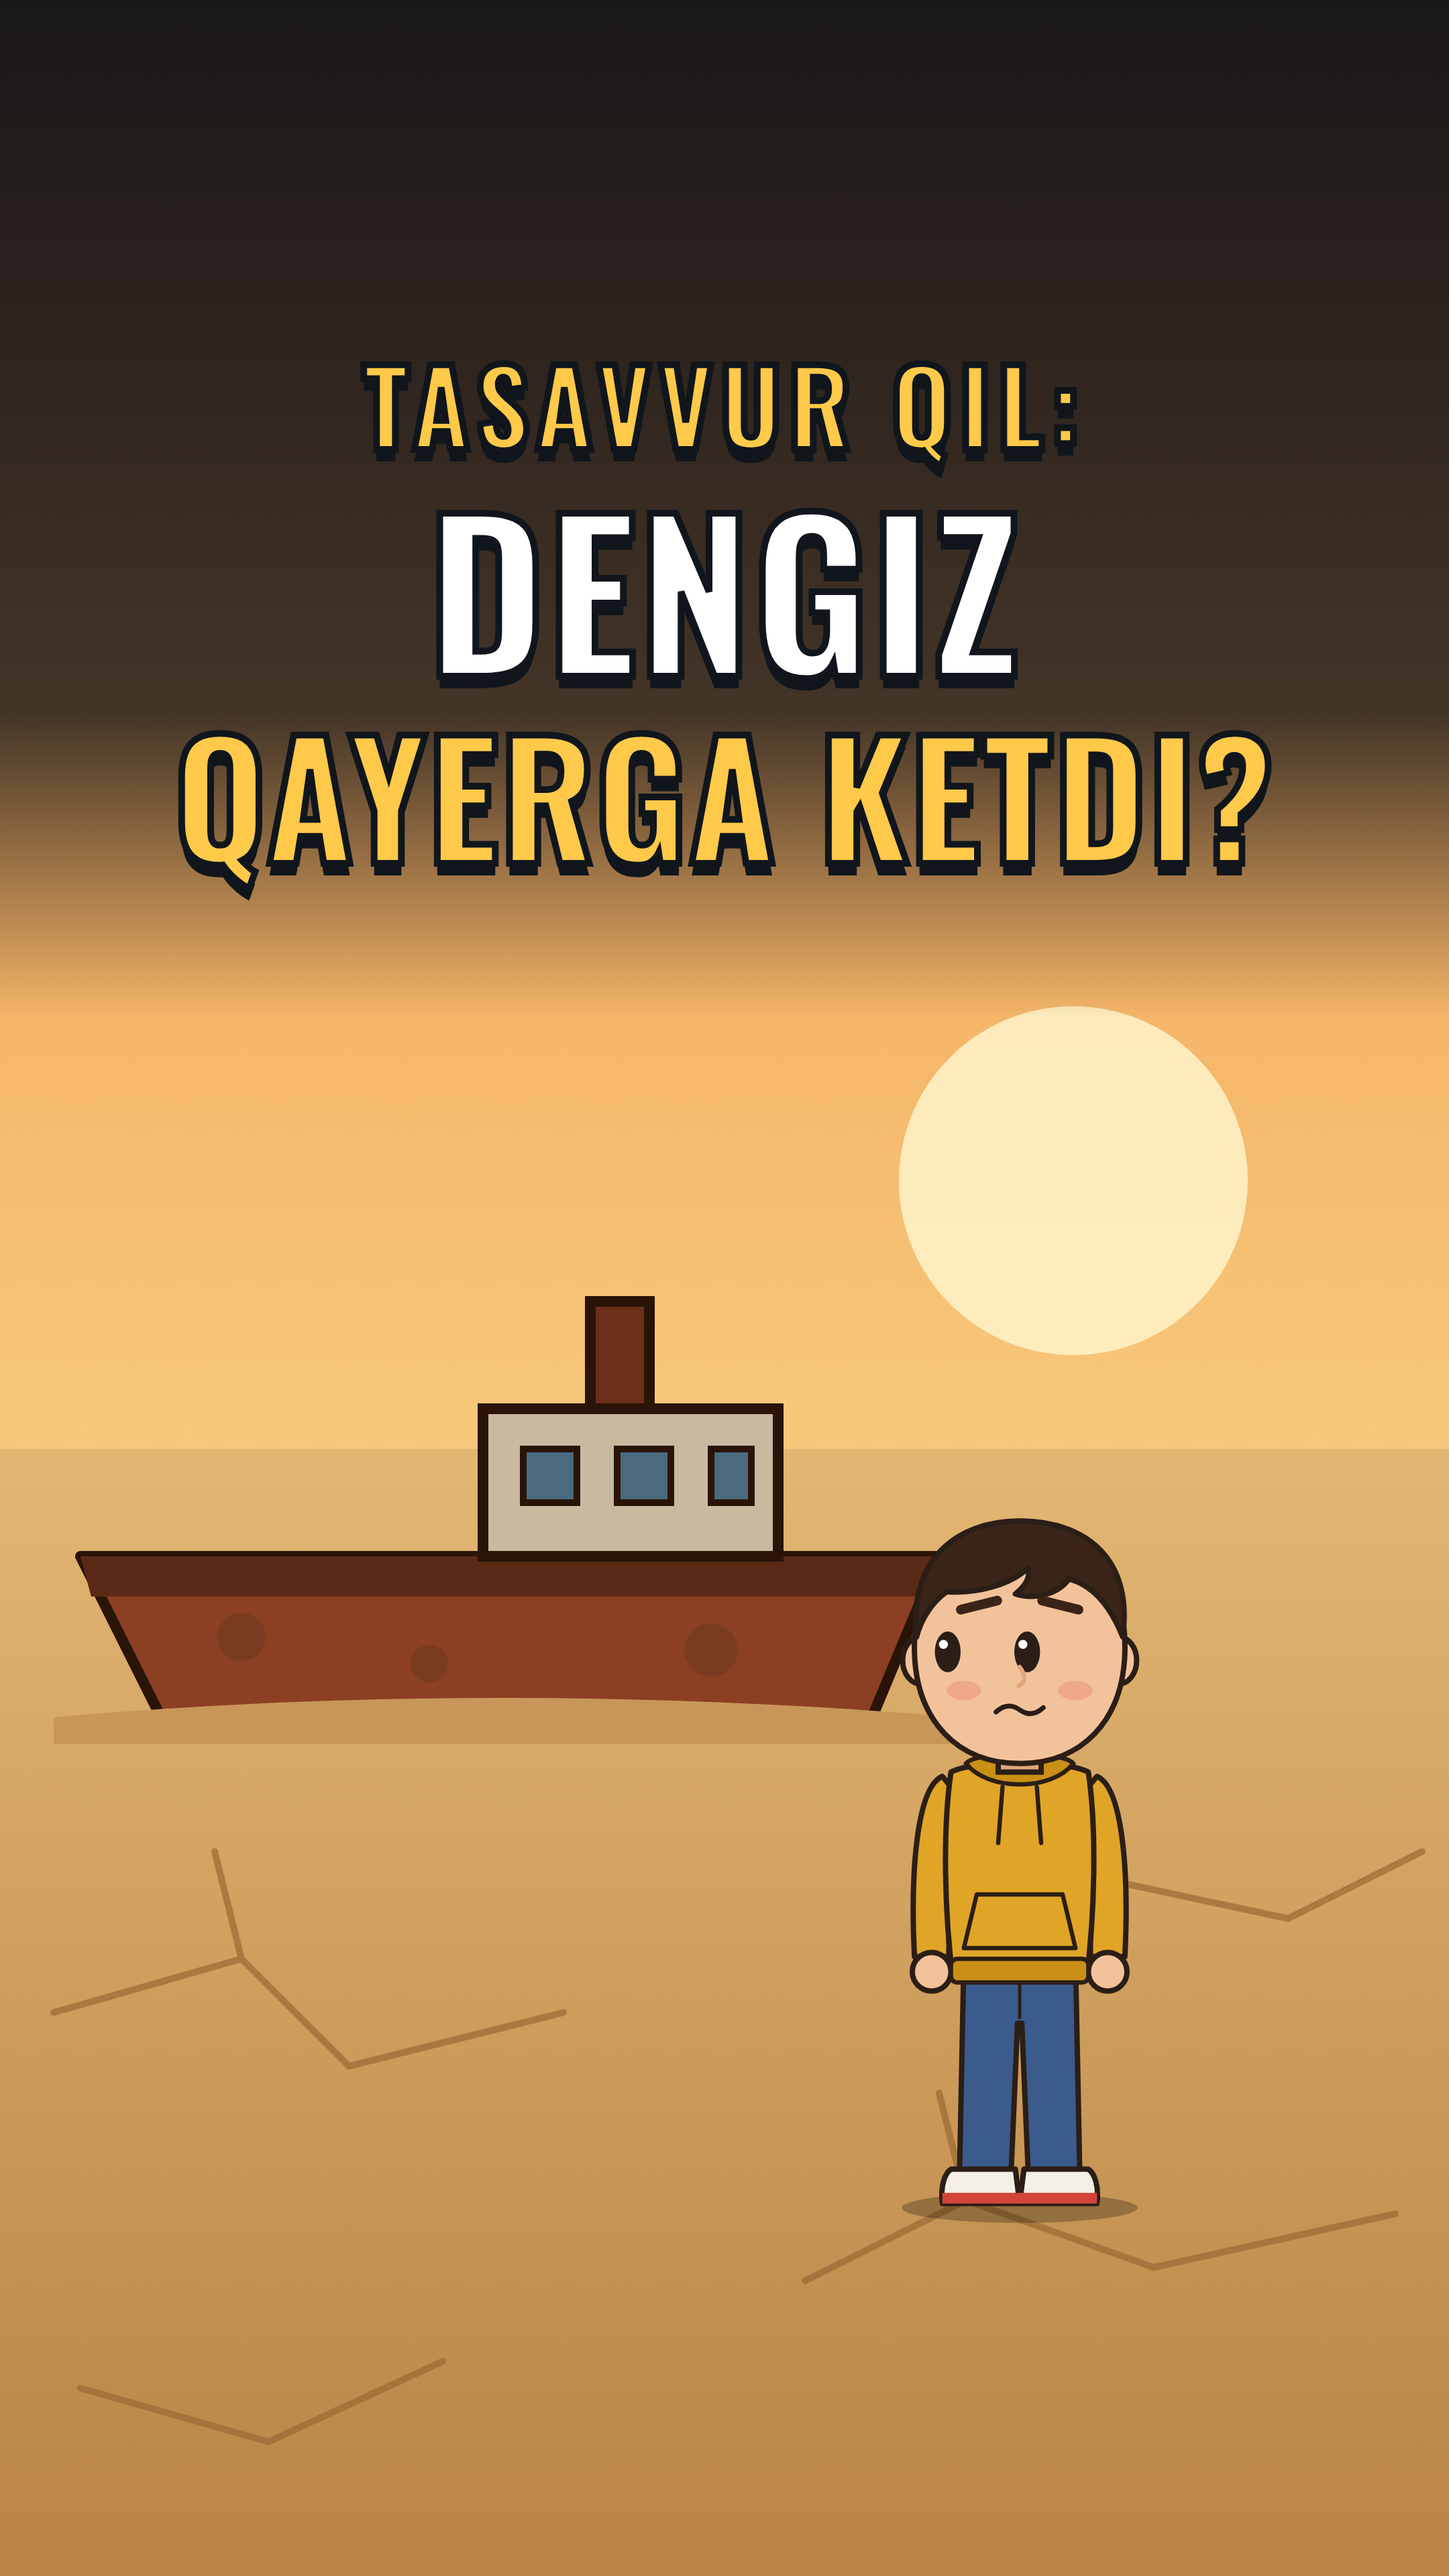
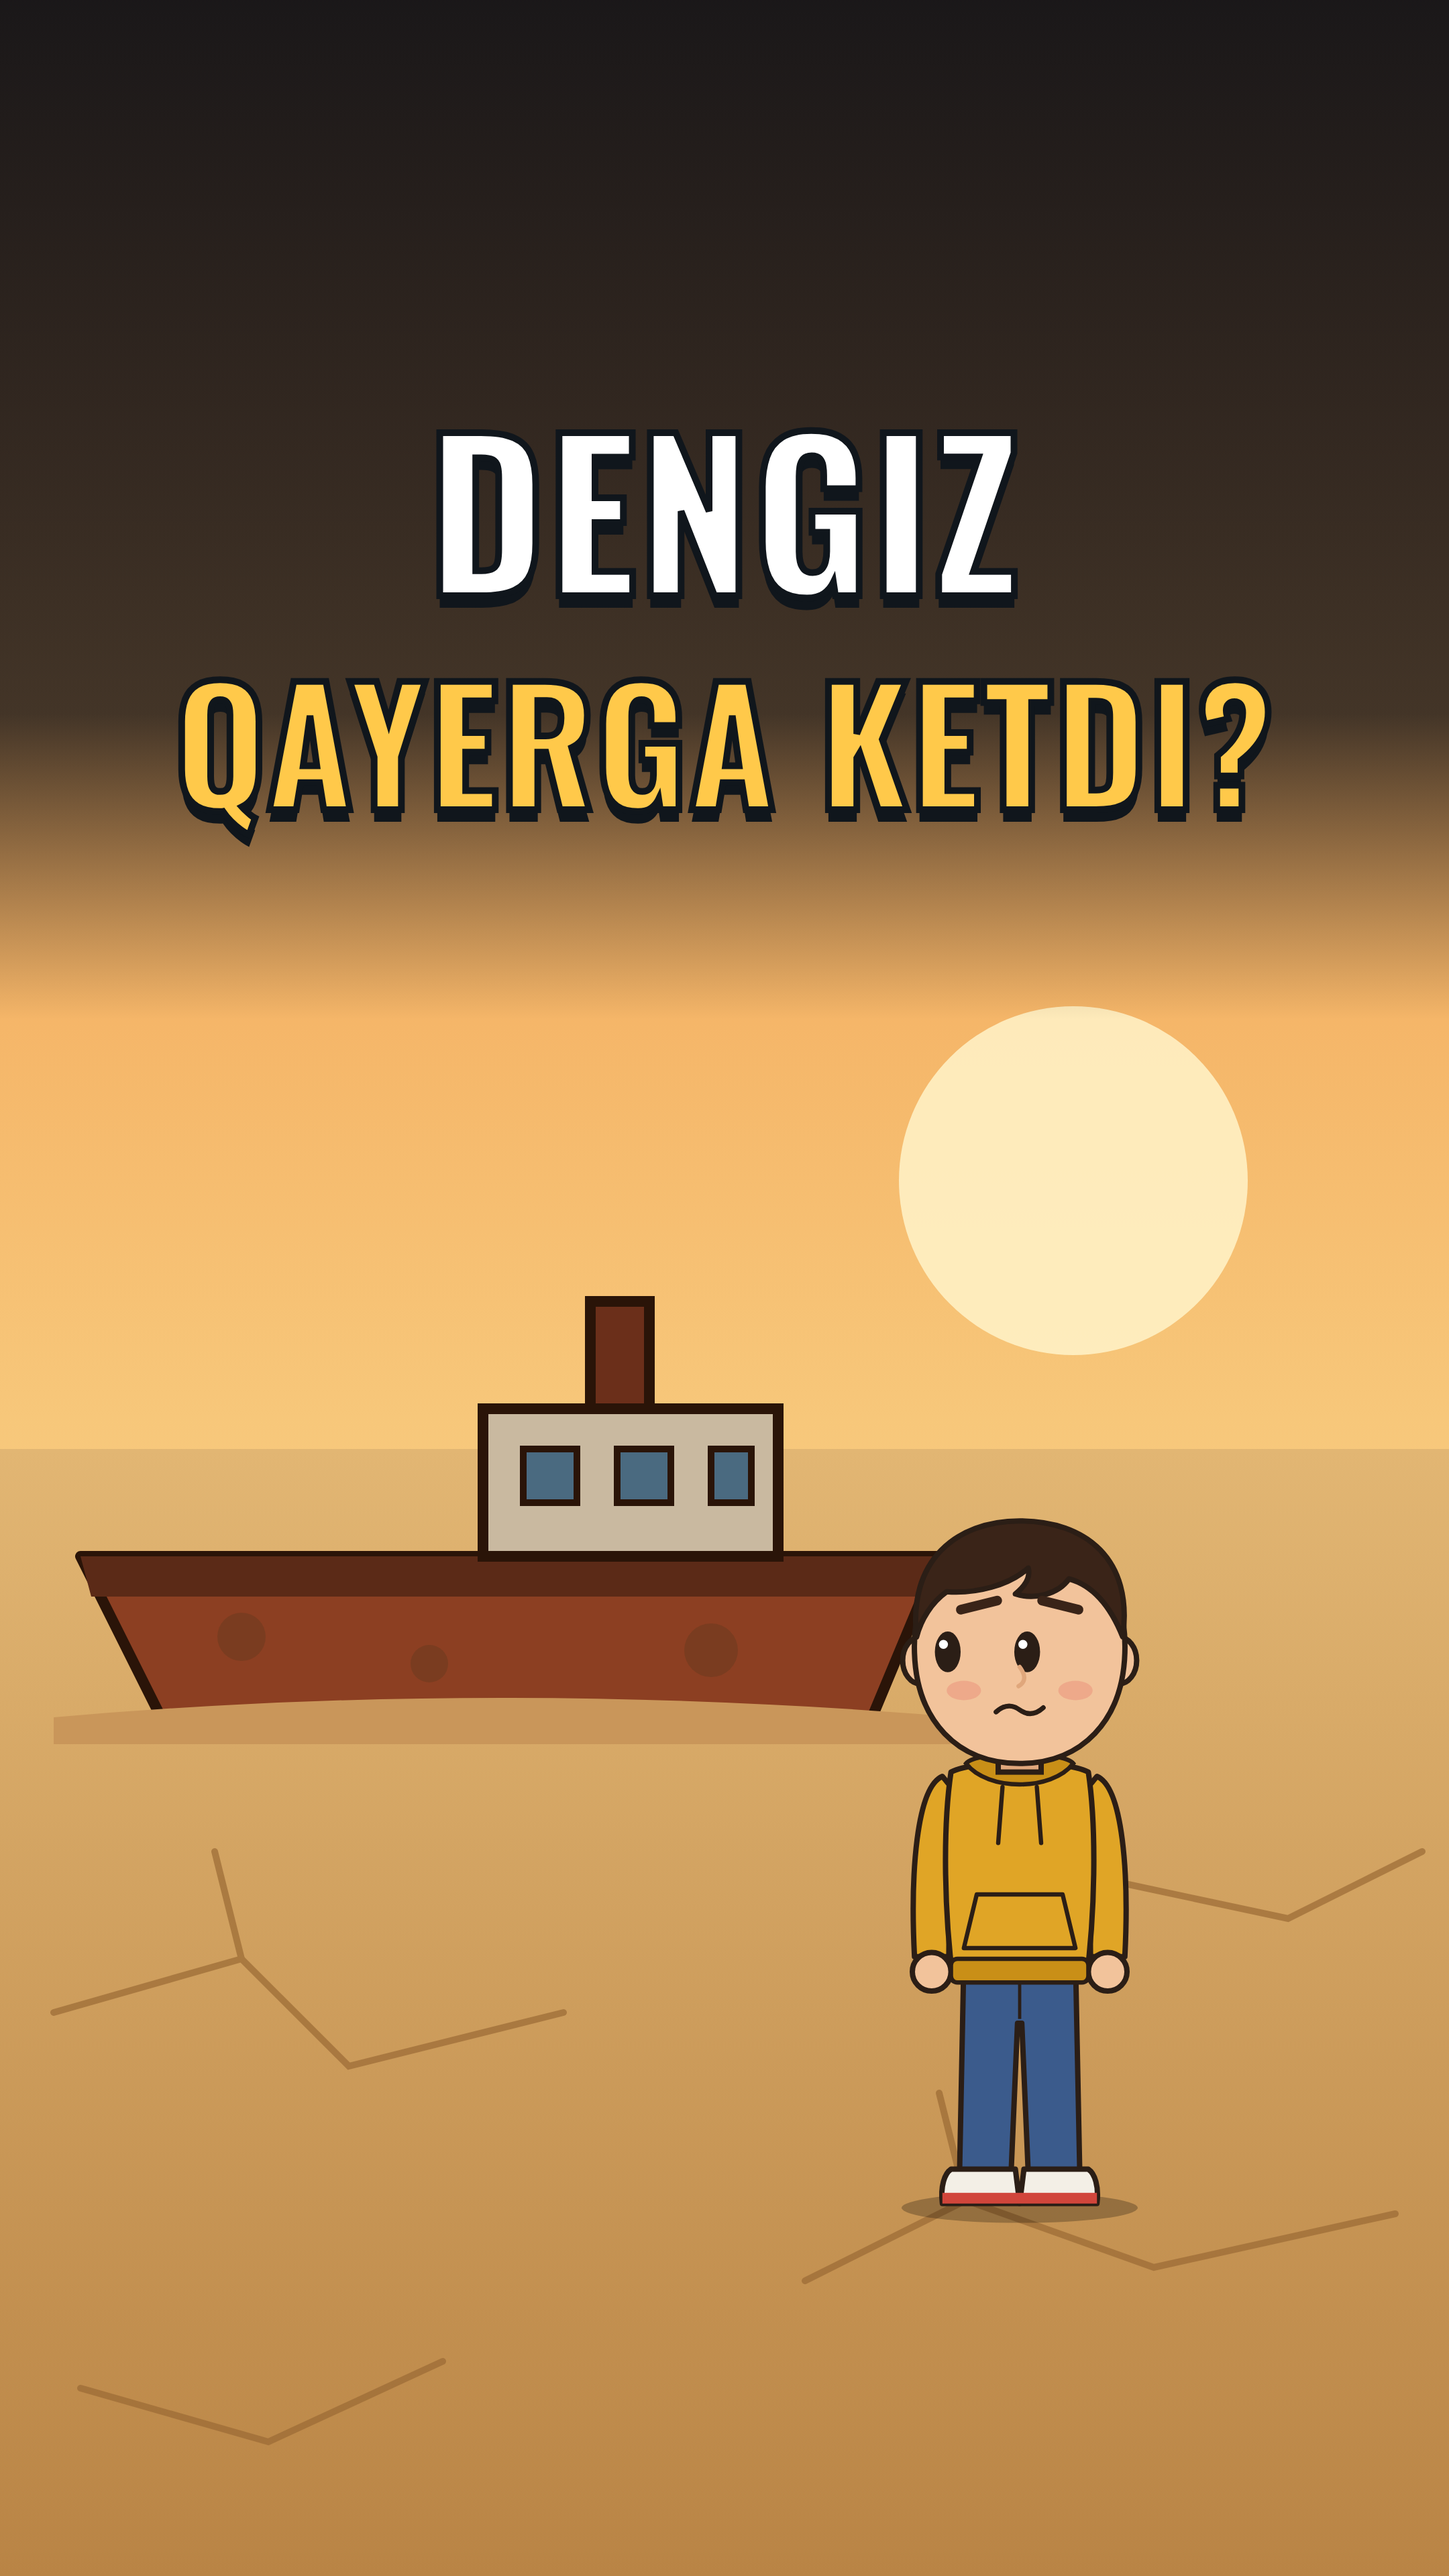
Drop 'Tasavvur qil' from covers and voice openings
Claude-Session: https://claude.ai/code/session_01TTDtXFX2VgNijaV9KjVb5K

Changed region(s): [[0.1241, 0.125, 0.8995, 0.3438]]

diff --git a/video/src/brand/Brand.tsx b/video/src/brand/Brand.tsx
@@ -90,7 +90,7 @@ const OrolScene: React.FC = () => (
 );
 
 export const BrandCoverOrol: React.FC = () => (
-  <BrandCover l0="TASAVVUR QIL:" l1="DENGIZ" l2="QAYERGA KETDI?">
+  <BrandCover l1="DENGIZ" l2="QAYERGA KETDI?">
     <OrolScene />
   </BrandCover>
 );

diff --git a/CLAUDE.md b/CLAUDE.md
@@ -216,3 +216,7 @@ Temur notes there; do not mix Temur work into the "Tasavvur qil" sections below,
   Orol dengizi ("1960-yil Mo'ynoqda baliqchisan"). Awaiting the user's yes.
 - English long-form YouTube idea: postponed. YPP is not available in Uzbekistan (talks with Google, Sep 2026); a fake foreign
   AdSense address breaks the rules. In Uzbekistan income comes from Instagram ads/sponsors.
+- 2026-11-21 user decision: the words "Tasavvur qil" are DROPPED from covers AND from the voice opening (this replaces the chat-6 rule
+  that every episode opens with "Tasavvur qil"). Still: a strong hook in the first 3 s and an open question to the end. "Tasavvur qil"
+  stays only in the bio. New identity: avatar `video/instagram/avatar_bek.png` (Bek, happy, blue rays), cover template `BrandCover`
+  in `video/src/brand/Brand.tsx` (big white + yellow question over a Bek scene), sample `instagram/cover_namuna_orol.png` (2x).
